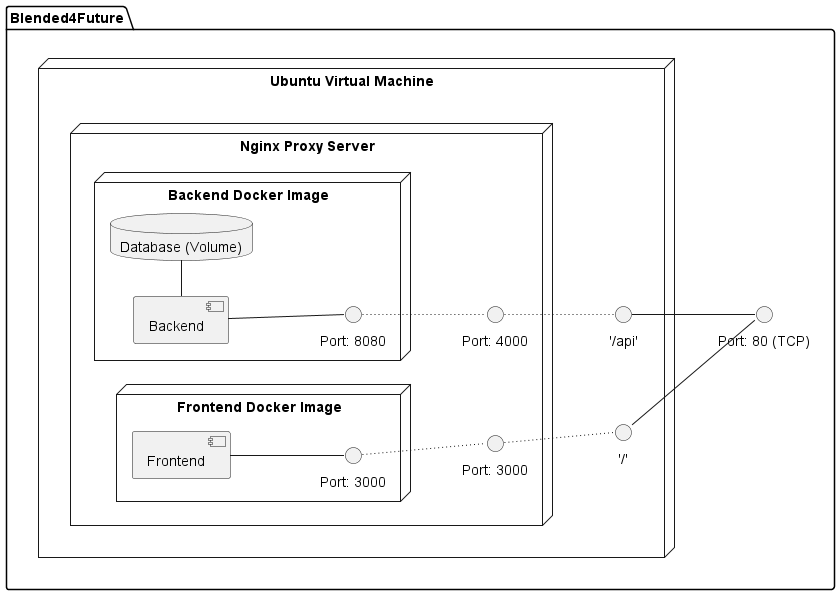
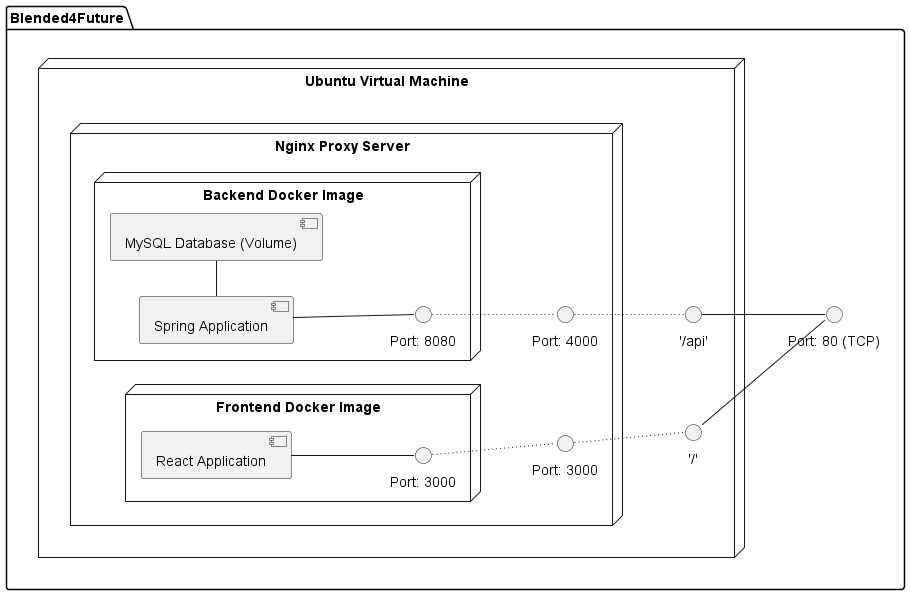
Diagramas Logicos adicionados

diff --git a/capitulos/cap4-implementacao/seccoes/backend.tex b/capitulos/cap4-implementacao/seccoes/backend.tex
@@ -42,7 +42,7 @@ A framework Spring apresentou à equipa uma alta curva de aprendizagem. Os vári
 
 A estrutura de pastas do backend foi definida para enaltecer a função de cada ficheiro e/ou classe em cada uma, como pode ser observado na figura \ref{fig:folder-struct-backend}.
 
-\begin{figure}
+\begin{figure}[h!tbp]
     \centering
     \includegraphics[width=0.5\linewidth]{capitulos/cap4-implementacao/assets/fold-struct-backend.png}
     \caption{Estrutura de pastas do backend}
@@ -51,7 +51,7 @@ A estrutura de pastas do backend foi definida para enaltecer a função de cada 
 
 \subsubsection{Entidades e relações}
 
-Para o caso de uso a ser considerado, a entidade de maior importância será \textit{Project}. Esta encontra-se representada na figura \ref{fig:classe-projeto}.
+Para o caso de uso a ser considerado, a entidade de maior importância será \textit{Project}. Esta encontra-se representada na figura \ref{lst:classe-projeto}.
 
 Em nota, interessante enaltecer o uso das respetivas anotações:
 
@@ -69,12 +69,7 @@ Em nota, interessante enaltecer o uso das respetivas anotações:
 
 \end{itemize}
 
-
-\begin{figure}
-    \centering
-    
-    \begin{lstlisting}[language=Java]
-
+\begin{lstlisting}[language=Java, caption={Classe \textit{Project}}, label={lst:class-project}]
 @Entity
 @Data
 @EqualsAndHashCode(callSuper = true)
@@ -106,12 +101,7 @@ public class Project extends BaseEntity {
     @ManyToOne
     private CourseEdition courseEdition;
 }
-
-    \end{lstlisting}
-
-    \caption{Classe \textit{Project}}
-    \label{fig:classe-projeto}
-\end{figure}
+\end{lstlisting}
 
 
 

diff --git a/capitulos/cap3-analisedoproblema/arquitetura.tex b/capitulos/cap3-analisedoproblema/arquitetura.tex
@@ -11,6 +11,13 @@
 
 \subsubsection{Diagrama Lógico}
 
+\begin{figure}[h!tbp]
+    \centering
+    \includegraphics[width=0.5\linewidth]{capitulos/cap3-analisedoproblema/assets/arquiteturasistema/logical/logical_l1.png}
+    \caption{Diagrama Lógico de Nível 1}
+    \label{fig:diagram-lvl1-logical}
+\end{figure}
+
 \subsubsection{Diagrama de Implementação}
 
 \subsubsection{Diagrama Físico} 
@@ -32,6 +39,13 @@ A figura \ref{fig:diagram-lvl1-physical} demonstra o diagrama de físico de nív
 
 \subsubsection{Diagrama Lógico}
 
+\begin{figure}[h!tbp]
+    \centering
+    \includegraphics[width=0.7\linewidth]{capitulos/cap3-analisedoproblema/assets/arquiteturasistema/logical/logical_l2.png}
+    \caption{Diagrama Lógico de Nível 2}
+    \label{fig:diagram-lvl2-logical}
+\end{figure}
+
 \subsubsection{Diagrama de Implementação}
 
 \subsubsection{Diagrama Físico} 
@@ -46,9 +60,19 @@ A figura \ref{fig:diagram-lvl2-physical} demonstra o diagrama de físico de nív
 \end{figure}
 
 
+
+
 \subsection{Nível 3}
 
 \subsubsection{Diagrama Lógico}
+
+\begin{figure}[h!tbp]
+    \centering
+    \includegraphics[width=0.8\linewidth]{capitulos/cap3-analisedoproblema/assets/arquiteturasistema/logical/logical_l3.png}
+    \caption{Diagrama Lógico de Nível 3}
+    \label{fig:diagram-lvl3-logical}
+\end{figure}
+
 
 \subsubsection{Diagrama de Implementação}
 
@@ -67,8 +91,6 @@ A figura \ref{fig:diagram-lvl3-physical} demonstra o diagrama de físico de nív
 
 
 \subsection{Nível 4}
-
-\subsubsection{Diagrama Lógico}
 
 \subsubsection{Diagrama de Implementação}
 

diff --git a/capitulos/cap4-implementacao/implementacao.tex b/capitulos/cap4-implementacao/implementacao.tex
@@ -34,7 +34,7 @@ A Microsoft oferece ferramentas para ajudar neste processo \cite{run-a-self-host
 
 Após a criação do agente basta iniciar o \textit{container Docker}, tendo em atenção à indicação das variaveis de ambiente necessárias. A figura \ref{fig:start-docker-agent} demonstra isso mesmo, com censura a qualquer informação sensivel à organização.
 
-\begin{figure}
+\begin{figure}[h!tbp]
     
 
 \begin{lstlisting}
@@ -55,7 +55,7 @@ Após a criação do agente basta iniciar o \textit{container Docker}, tendo em 
 
 Logo após, é possivél ver o agente disponível no Azure DevOps (Figura \ref{fig:agent-devops}). 
 
-\begin{figure}
+\begin{figure}[h!tbp]
 \includegraphics[width=\linewidth]{capitulos/cap4-implementacao/assets/devops-agent.png}
 \caption{Agente disponbilizado no Azure DevOps}
 \label{fig:agent-devops}
@@ -67,7 +67,7 @@ O conceito de trabalho (em inglês, \textit{Job}) é de extrema importância no 
 
 Nesta secção demonstra-se a \textit{pipeline} criada e os respetivos passos por ela tomados, utilizando como exemplo a definida para o módulo frontend. A versão completa deste ficheiro poderá ser encontrada no appêndice \ref{app:pipeline-yaml}. 
 
-\begin{figure}
+\begin{figure}[h!tbp]
     \centering
     \includegraphics[width=0.3\linewidth]{capitulos/cap4-implementacao/assets/pipeline-activity-diagram.png}
     \caption{Diagrama de atividade representante da Pipeline de construção de uma nova versão}

diff --git a/appendices/b-pipeline-start.sh/appendix-b.tex b/appendices/b-pipeline-start.sh/appendix-b.tex
@@ -1,4 +1,4 @@
 \chapter{Script para conexão de uma máquina à \textit{agent pool} do Azure Pipelines}
 \label{app:pipeline-start.sh}
 
-%\lstinputlisting{appendices/b-pipeline-start.sh/start.sh}
+\lstinputlisting{appendices/b-pipeline-start.sh/start.sh}
